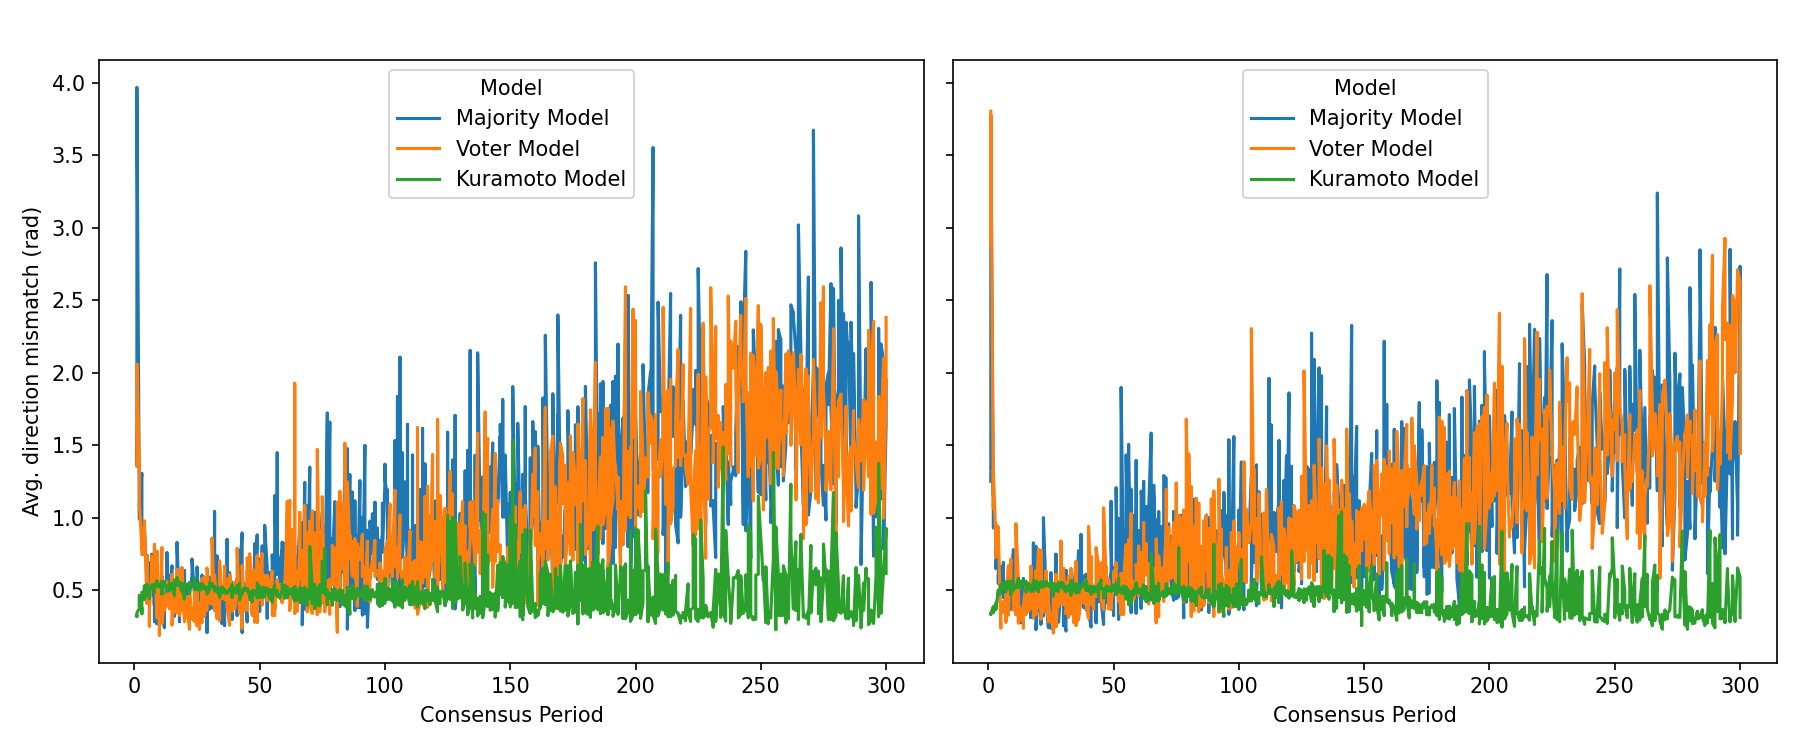
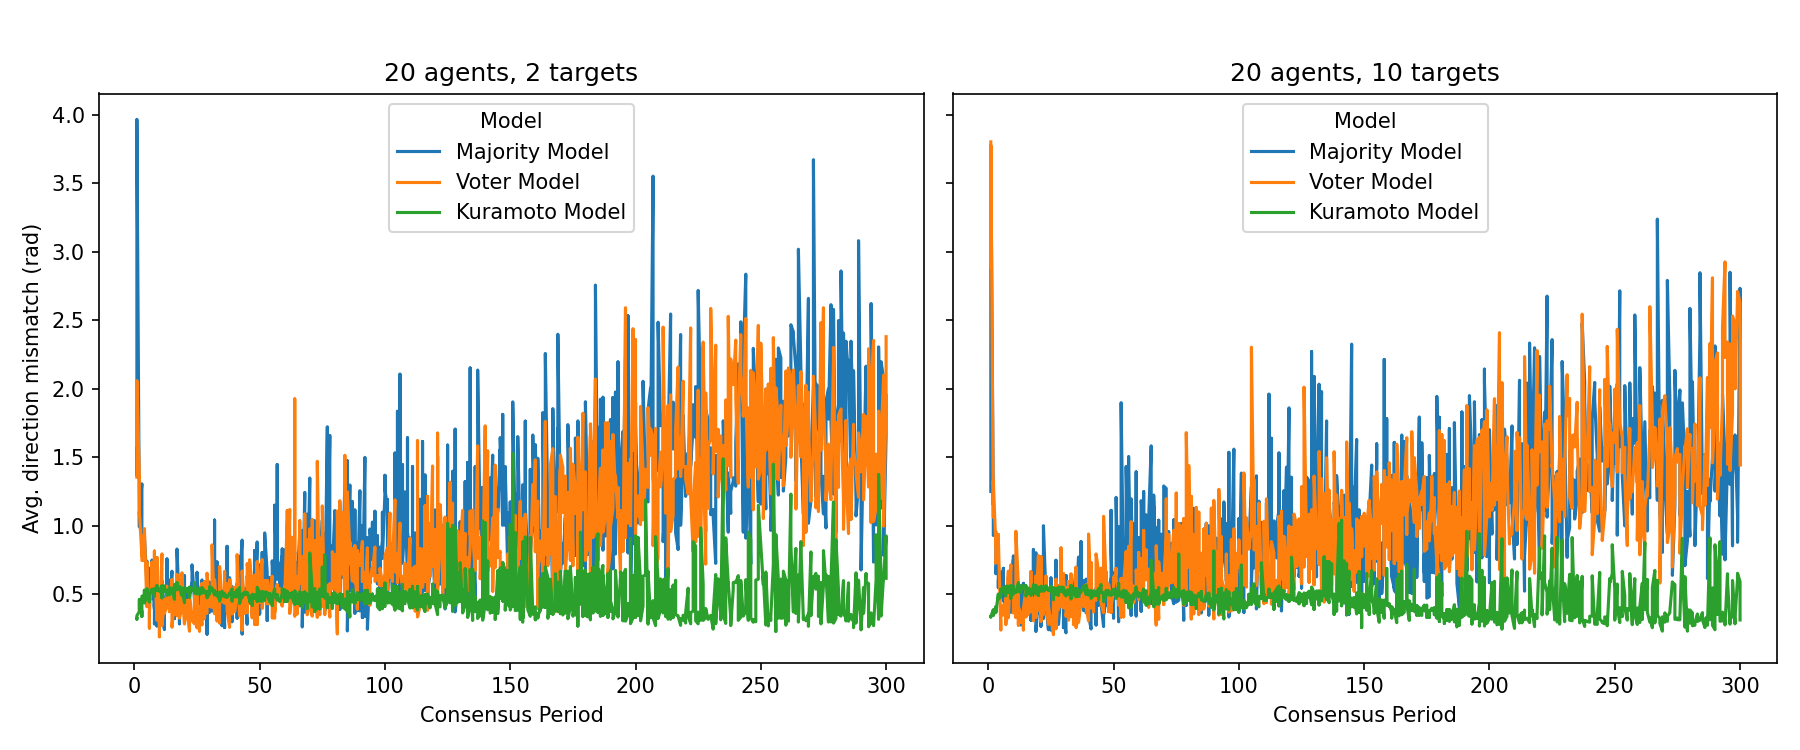
Update data files and plot titles for agents/targets analysis
Updated multiple PNG data files and data.txt with new results. Un-commented plot title lines in utils.py to display agent and target counts in generated plots. Removed obsolete DirectionMismatch_Kuramoto_Model_10A_2T.png.

diff --git a/Utils/utils.py b/Utils/utils.py
@@ -299,7 +299,7 @@ def _plot_by_agents_targets(csv_path, value_key, fig_prefix, ylabel, xlabel, yli
                 xs, ys = zip(*data_2[m])
                 ax.plot(xs, ys, label=m)
                 plotted = True
-        # ax.set_title(f'{A} agents, 2 targets')
+        ax.set_title(f'{A} agents, 2 targets')
         ax.set_xlabel(xlabel)
         ax.set_ylabel(ylabel)
         if ylim is not None:
@@ -315,7 +315,7 @@ def _plot_by_agents_targets(csv_path, value_key, fig_prefix, ylabel, xlabel, yli
                 xs, ys = zip(*data_10[m])
                 ax.plot(xs, ys, label=m)
                 plotted = True
-        # ax.set_title(f'{A} agents, 10 targets')
+        ax.set_title(f'{A} agents, 10 targets')
         ax.set_xlabel(xlabel)
         if ylim is not None:
             ax.set_ylim(*ylim)
